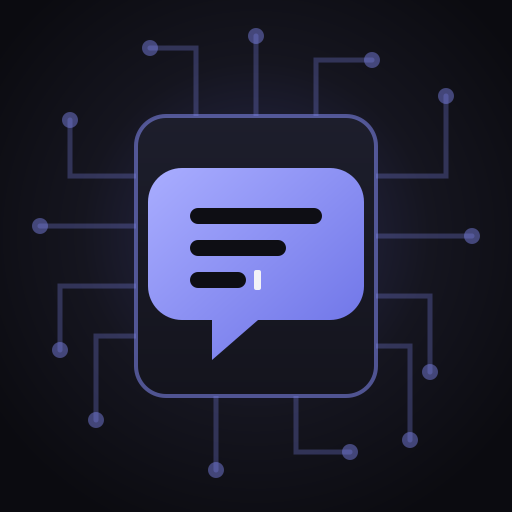
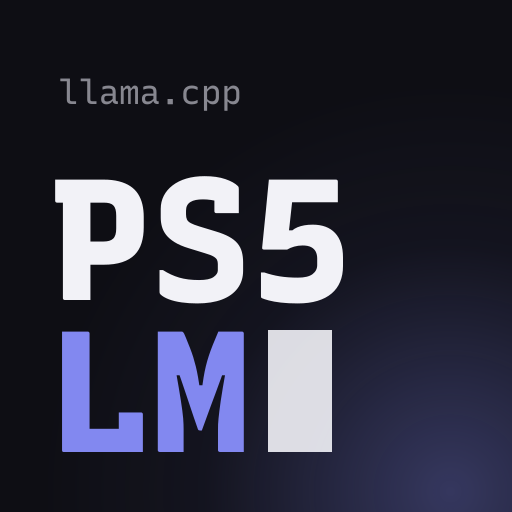
App: PS5LM, title PPSA99575, with its own artwork
The app is PS5LM again, under its own title ID (PPSA99575): PS5LM Plus
(PPSA99581) is @abhi245y's app and stays his. The home screen name, the
notifications and the dashboard header say PS5LM ("PS5" in ink, "LM" in
the site's periwinkle), and the dashboard panels take the site's ink and
background tones.

The icon and the home screen background are new: the name as a terminal
line in the site's palette and Recursive Mono. scripts/render-artwork.sh
renders them from their SVG sources with the site's fonts; the rendered
PNGs are committed, so build-app.sh no longer needs ImageMagick (#13).

diff --git a/ps5/app/main.cpp b/ps5/app/main.cpp
@@ -509,7 +509,7 @@ struct Models {
         pthread_attr_setstacksize(&attr, 16u << 20);  // the console's default stack is small
         pthread_create(&server, &attr, run_server, nullptr);
         server_started = true;
-        notify("PS5LM Plus: loading the model onto the GPU");
+        notify("PS5LM: loading the model onto the GPU");
     }
 
     void stop() {
@@ -649,7 +649,7 @@ int main(int, char **) {
     } else {
         stats.set_state(ServerState::no_model);
         if (models.rows.empty()) {
-            notify("PS5LM Plus: no models; copy a .gguf to /data/PS5LM/models or PS5LM/models on a USB drive");
+            notify("PS5LM: no models; copy a .gguf to /data/PS5LM/models or PS5LM/models on a USB drive");
         }
     }
 
@@ -702,17 +702,17 @@ int main(int, char **) {
             if (live.state == ServerState::loading && projector && restart_at == 0) {
                 std::ofstream(kChoice) << models.running << "\n";
                 std::ofstream(kTextOnly) << models.running << "\n";
-                notify("PS5LM Plus: the image projector did not load; loading the model text only");
+                notify("PS5LM: the image projector did not load; loading the model text only");
                 dash.set_busy("Loading " + base_name(models.running) + " text only",
                               "Its image projector did not load, see /data/PS5LM/llama.log");
                 restart_at = n + 3;
             } else {
-                notify("PS5LM Plus: the server stopped, see /data/PS5LM/llama.log");
+                notify("PS5LM: the server stopped, see /data/PS5LM/llama.log");
             }
         }
         const bool serving = live.state == ServerState::ready || live.state == ServerState::generating;
         if (serving && !was_serving) {
-            notify("PS5LM Plus: ready, chat in a browser on this network");
+            notify("PS5LM: ready, chat in a browser on this network");
         }
         was_serving = serving;
         if (n % 30 == 0) {
@@ -777,7 +777,7 @@ int main(int, char **) {
             const bool over = gib > models.settings.scratch_limit_gib;
             if (over && !scratch_warned) {
                 char text[128];
-                std::snprintf(text, sizeof(text), "PS5LM Plus: the chat's scratch folder holds %.1f GiB; clear it in Settings", gib);
+                std::snprintf(text, sizeof(text), "PS5LM: the chat's scratch folder holds %.1f GiB; clear it in Settings", gib);
                 notify(text);
                 std::printf("ps5lm-app: %s\n", text + 7);
             }
@@ -789,7 +789,7 @@ int main(int, char **) {
             if (mv.saved != saved_seen) {
                 saved_seen = mv.saved;
                 models.rescan(stats, false);
-                notify(("PS5LM Plus: " + mv.note).c_str());
+                notify(("PS5LM: " + mv.note).c_str());
             }
             dash.set_market(std::move(mv));
         }
@@ -864,7 +864,7 @@ int main(int, char **) {
                 std::filesystem::remove_all(e.path(), ec);
             }
             stats.set_scratch(folder_bytes(kScratch) / 1073741824.0);
-            notify("PS5LM Plus: scratch folder cleared");
+            notify("PS5LM: scratch folder cleared");
             std::printf("ps5lm-app: scratch folder cleared\n");
         }
         // The same requests from the PC (scripts/ps5lm-app.sh load|unload).

diff --git a/ps5/app/dashboard.cpp b/ps5/app/dashboard.cpp
@@ -30,11 +30,11 @@ namespace {
 
 // ---- the design language (Pulse Dashboard's) --------------------------------
 
-const Color kInk         = Color::rgb(0xe9eefc);
+const Color kInk         = Color::rgb(0xf2f2f7);
 const Color kClear       = Color::rgb(0x000000, 0.0f);
 const Color kBlack       = Color::rgb(0x000000);
-const Color kPanelTop    = Color::rgb(0x171f33);
-const Color kPanelBottom = Color::rgb(0x0e1424);
+const Color kPanelTop    = Color::rgb(0x17171f);
+const Color kPanelBottom = Color::rgb(0x0e0e14);
 const Color kCyan        = Color::rgb(0x4fe0ff);  // speed and the GPU
 const Color kLime        = Color::rgb(0xb8f26b);  // the CPU and the model
 const Color kAmber       = Color::rgb(0xffc24a);  // memory
@@ -1149,8 +1149,8 @@ void Dashboard::draw_header(gfx::DrawList & list) const {
     const float in = tween::stagger(age_, 0, 0.05f, 0.5f);
     list.push_opacity(in);
     const float y = 124 - 10.0f * (1.0f - in);
-    float       w = ui::text(list, fonts_.display, "PS5LM", kGridX - 3, y, 56, kInk);
-    w += ui::text(list, fonts_.display, " Plus", kGridX - 3 + w, y, 56, kBrand);
+    float       w = ui::text(list, fonts_.display, "PS5", kGridX - 3, y, 56, kInk);
+    w += ui::text(list, fonts_.display, "LM", kGridX - 3 + w, y, 56, kBrand);
     std::string sub = "v" PS5LM_VERSION "  \xC2\xB7  " + live_.address;
     ui::text(list, fonts_.regular, sub, kGridX + w + 24, y, 24, kInk.with_alpha(kMuted));
 
@@ -1382,7 +1382,7 @@ void Dashboard::draw_usage_details(gfx::DrawList & list, const Rect & panel) con
     const bool serving = L.state == ServerState::ready || L.state == ServerState::generating;
     char text[96];
     caps(list, f, "USAGE", panel.x + 56, panel.y + 60, 20, kCyan);
-    ui::text(list, f.regular, "What the console is doing for PS5LM Plus, over the last two minutes.", panel.x + 56,
+    ui::text(list, f.regular, "What the console is doing for PS5LM, over the last two minutes.", panel.x + 56,
              panel.y + 96, 20, kInk.with_alpha(kMuted));
 
     const float x0 = panel.x + 56, colw = (panel.w - 112 - 48) * 0.5f, x1 = x0 + colw + 48;

diff --git a/scripts/artwork-fonts.py b/scripts/artwork-fonts.py
@@ -1,0 +1,31 @@
+# The site's Recursive webfonts as static TTFs with their own family names
+# ("PS5LM Mono", "PS5LM Sans"), for rendering the app's SVG artwork.
+import os, sys
+from fontTools.ttLib import TTFont
+from fontTools.varLib.instancer import instantiateVariableFont
+
+src, dst = sys.argv[1], sys.argv[2]
+os.makedirs(dst, exist_ok=True)
+for name, family in (("recursive-mono-v1", "PS5LM Mono"), ("recursive-sans-v1", "PS5LM Sans")):
+    for weight, style in ((400, "Regular"), (800, "Bold")):
+        f = TTFont(f"{src}/{name}.woff2")
+        f.flavor = None
+        axes = {"wght": weight}
+        if "CASL" in [a.axisTag for a in f["fvar"].axes]:
+            axes["CASL"] = 0
+        f = instantiateVariableFont(f, axes)
+        for rec in f["name"].names:
+            if rec.nameID in (1, 16):
+                rec.string = family
+            elif rec.nameID in (2, 17):
+                rec.string = style
+            elif rec.nameID == 4:
+                rec.string = f"{family} {style}"
+            elif rec.nameID == 6:
+                rec.string = f"{family.replace(' ', '')}-{style}"
+        f["OS/2"].usWeightClass = weight
+        f["OS/2"].fsSelection = (f["OS/2"].fsSelection & ~0b1100001) | (0b100000 if style == "Bold" else 0b1000000)
+        f["head"].macStyle = 1 if style == "Bold" else 0
+        out = f"{dst}/{family.replace(' ', '')}-{style}.ttf"
+        f.save(out)
+        print(out)

diff --git a/docs/CONSOLE.md b/docs/CONSOLE.md
@@ -78,7 +78,7 @@ At exit, Sony's libc prints `[SceLibc] A heap error is detected` (SceLibcInterna
 
 ## The native app on the GPU
 
-PS5LM's app (`ps5/app`, PPSA99581) is a title, not a payload: it gets the console's direct memory and the GPU, through ggml-vulkan on PS5_Vulkan's RADV.
+PS5LM's app (`ps5/app`, PPSA99575) is a title, not a payload: it gets the console's direct memory and the GPU, through ggml-vulkan on PS5_Vulkan's RADV.
 
 | What | Value |
 |---|---|
